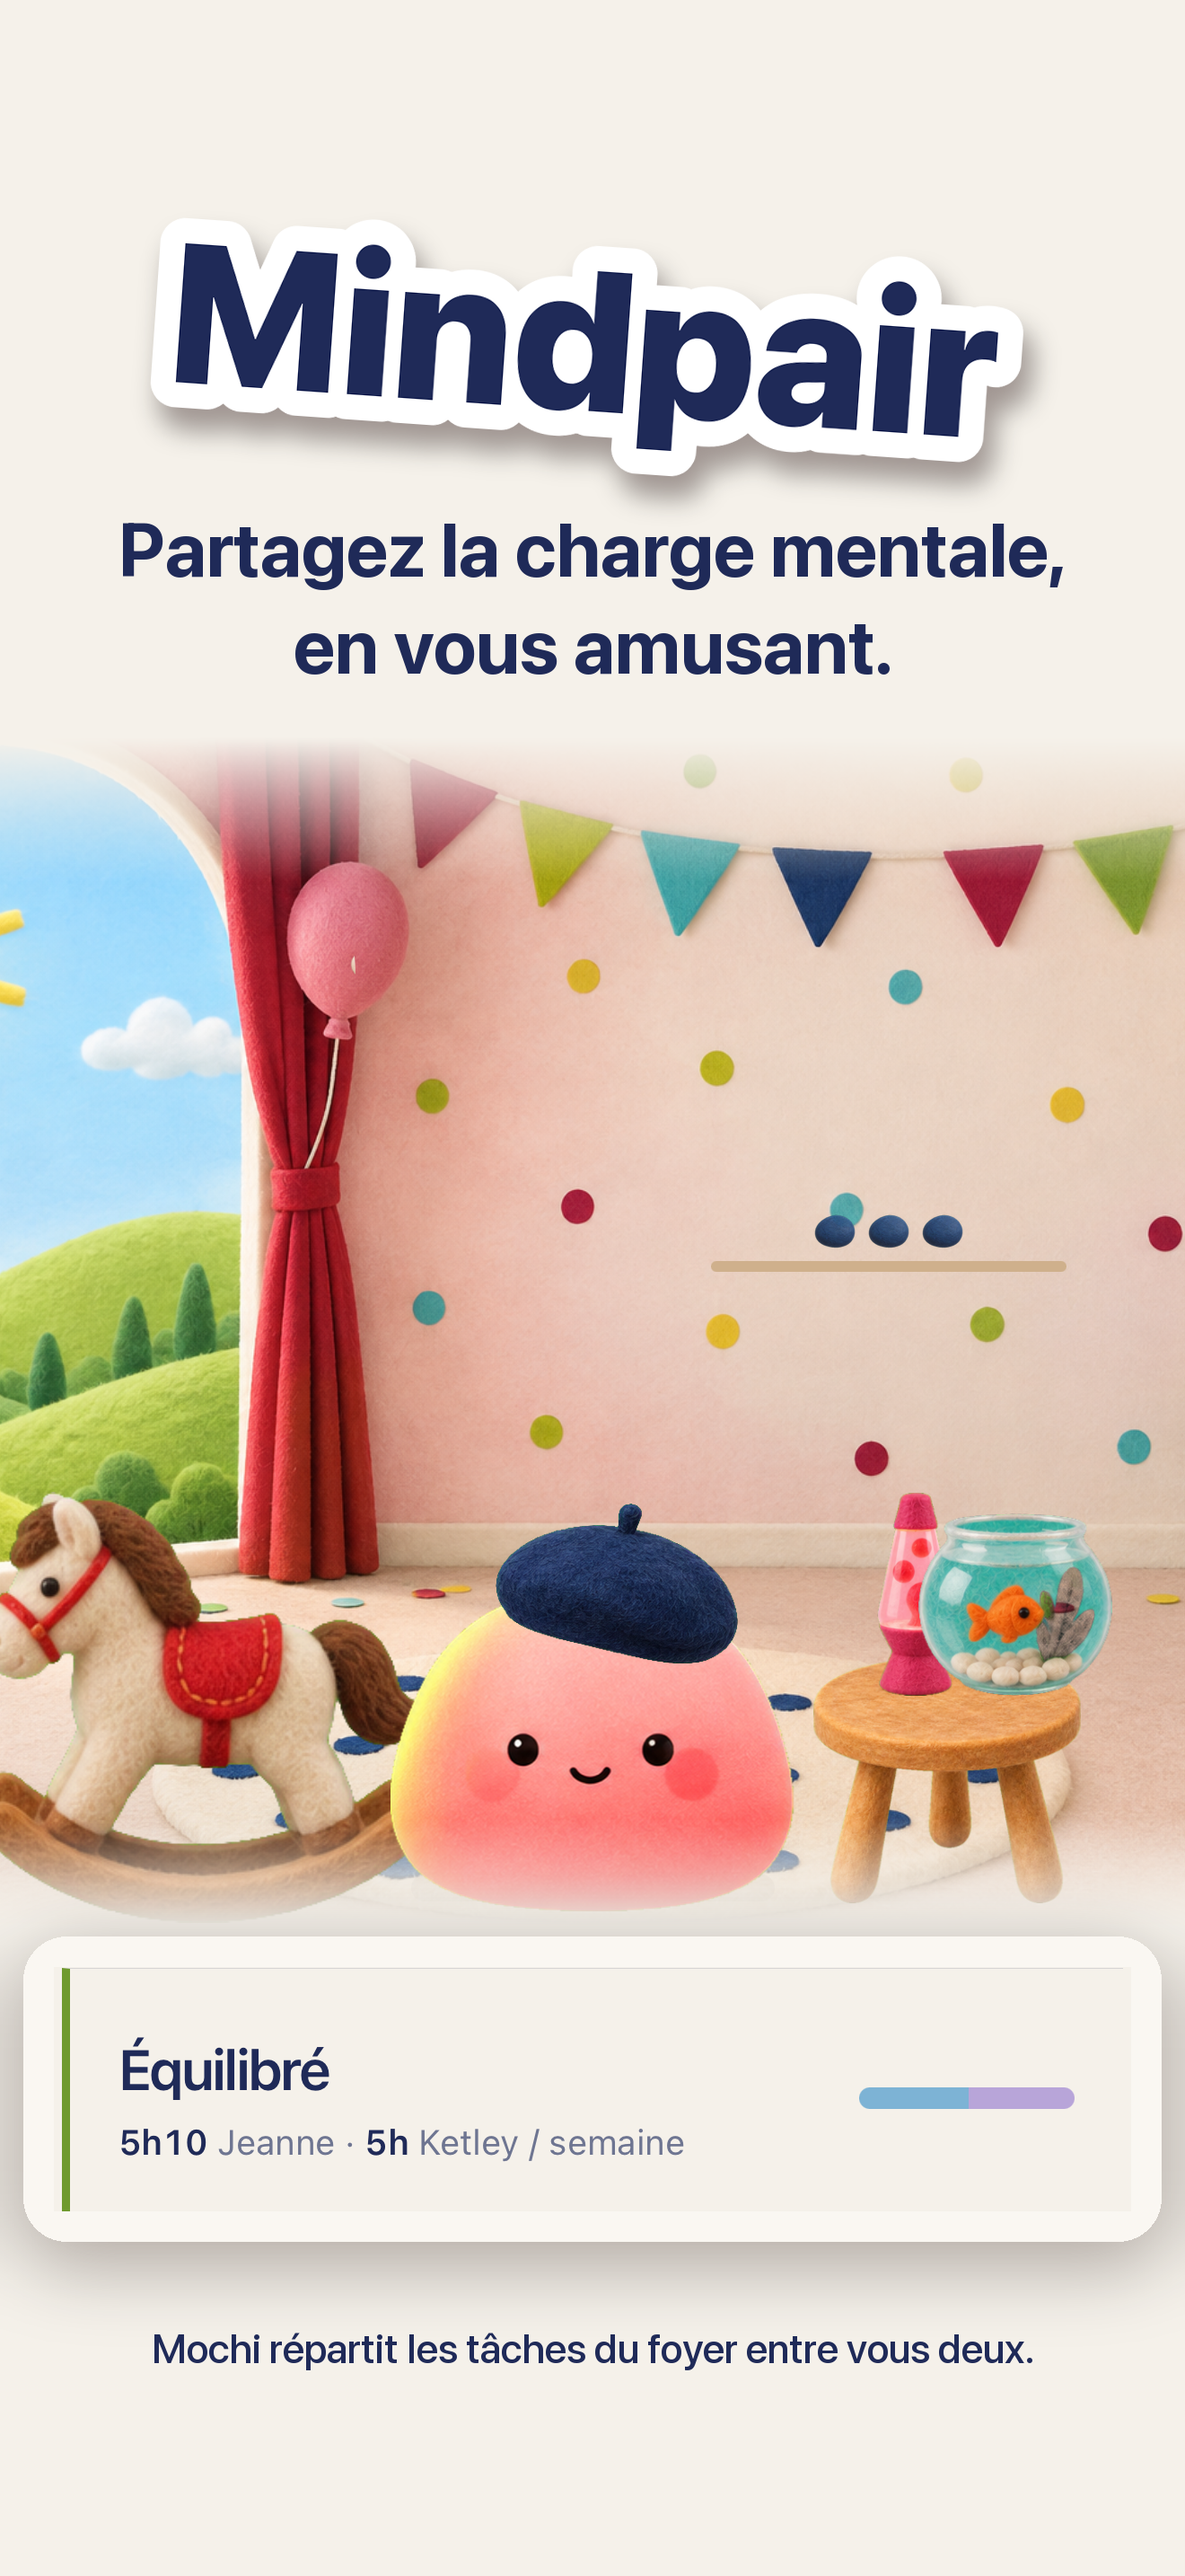
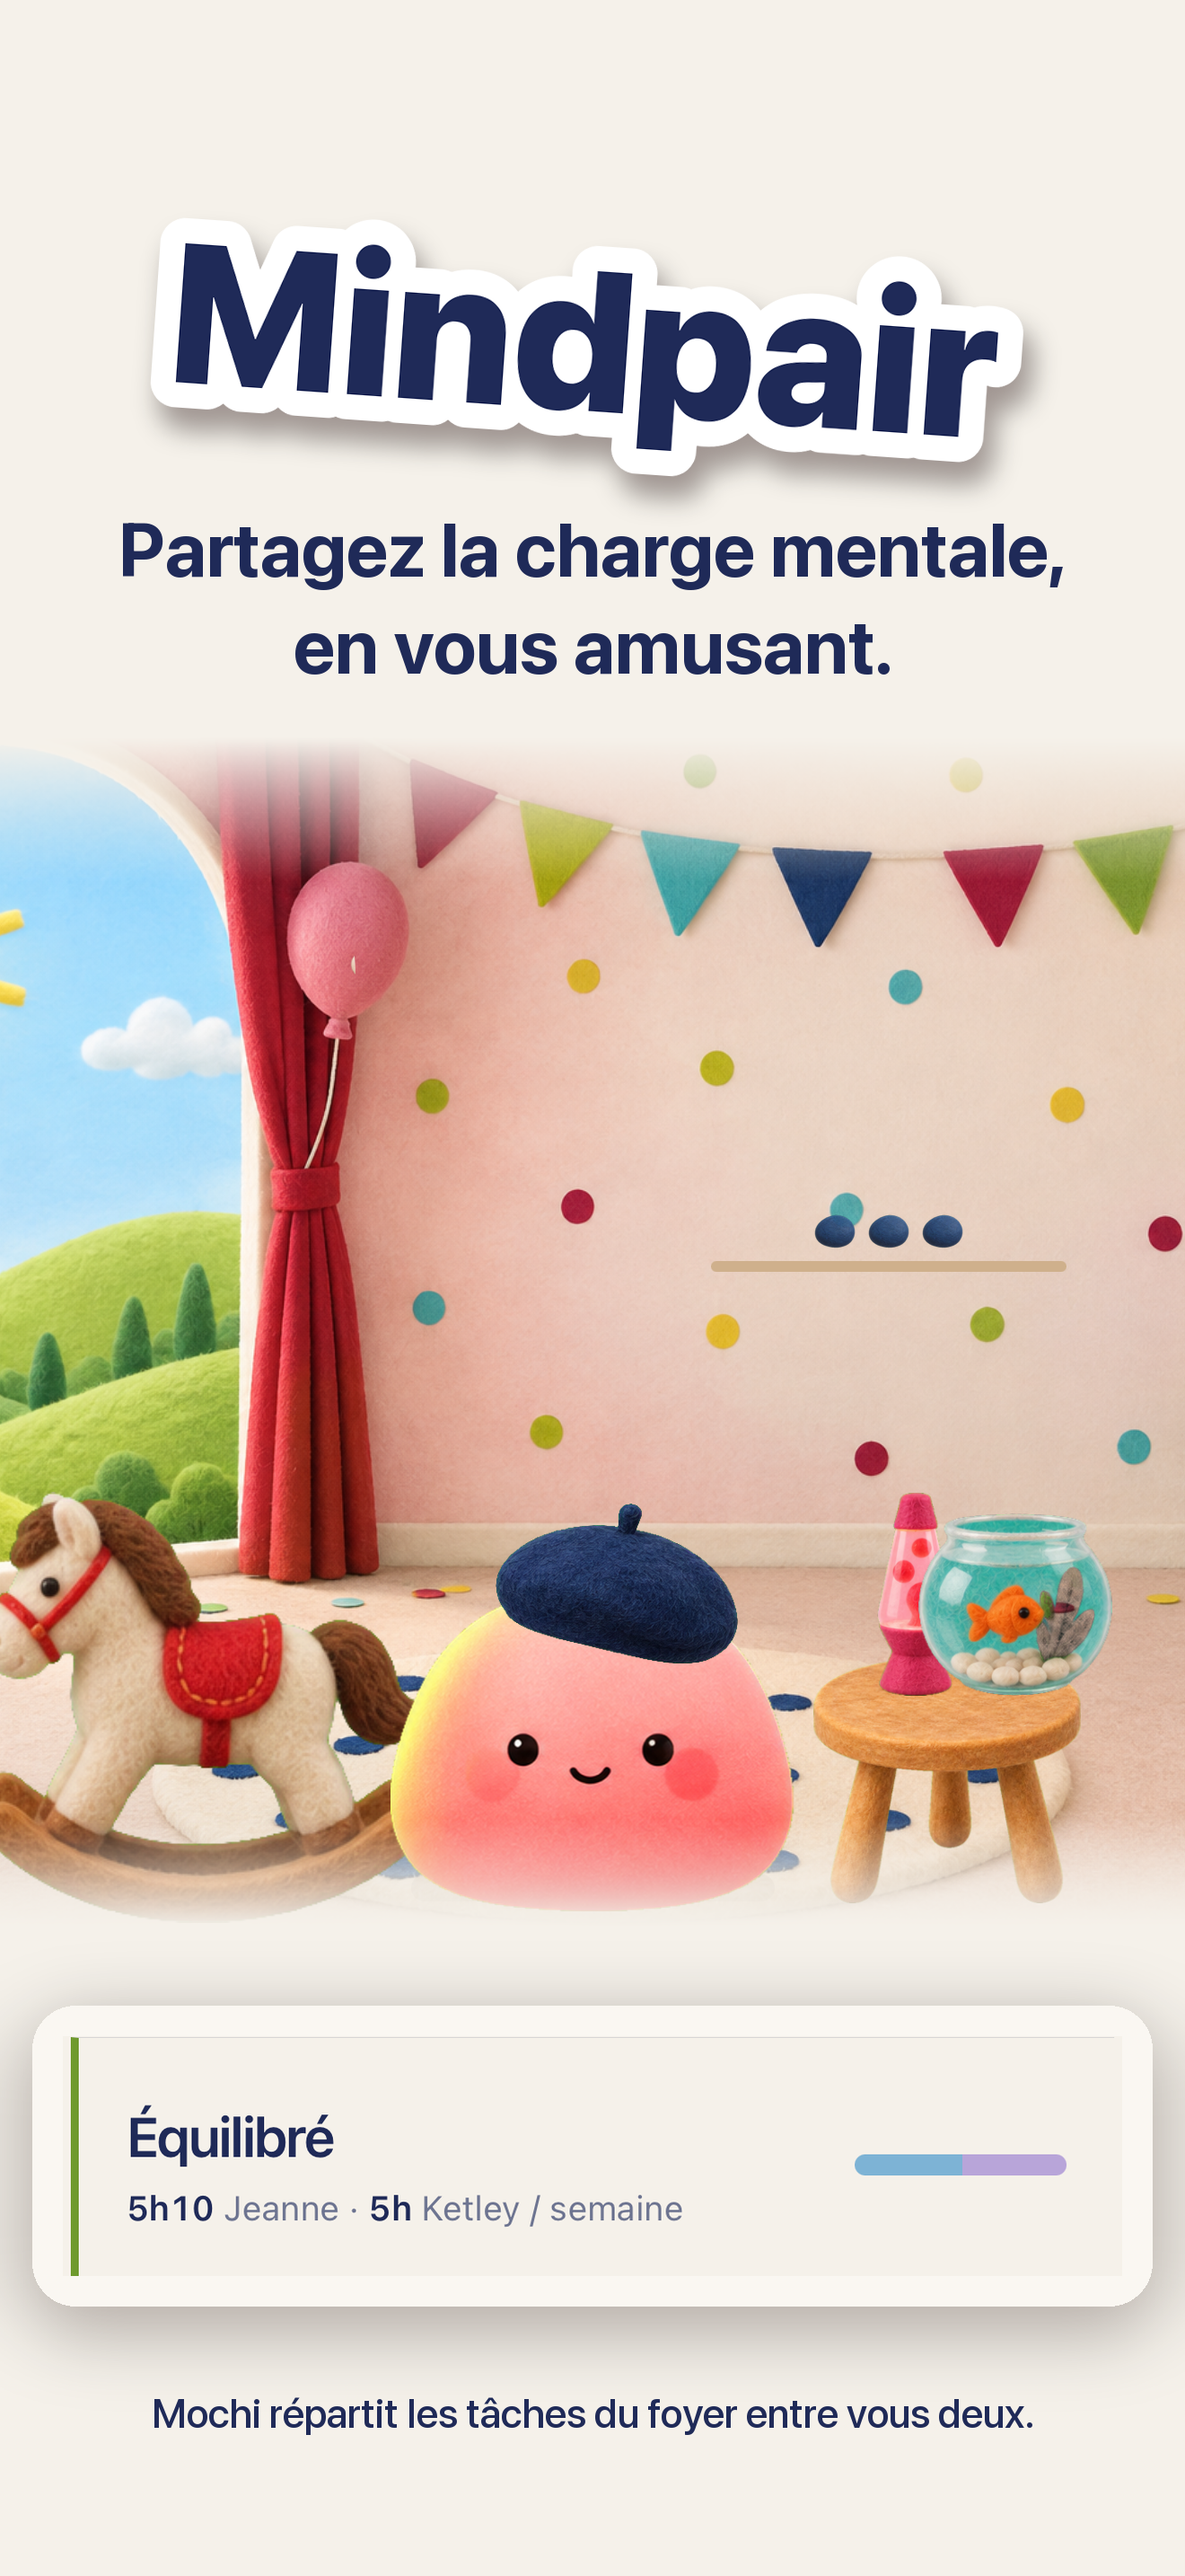
Captures App Store v4 : les six écrans sur la grille validée (sticker, titre, pièce, un élément de l'app)

Changed region(s): [[0.0, 0.7758, 0.9939, 0.962]]

diff --git a/app/scene-capture.js b/app/scene-capture.js
@@ -1,16 +1,20 @@
 // Écran de capture (App Store, 10 nov 2026) : la pièce de Mochi seule, en plein écran, sans interface.
-// Accessible par mochi://scene-capture — sert uniquement à produire les visuels du Store.
+// mochi://scene-capture?mood=sad&items=cheval,lave&outfit=beret&lvl=1&nuit=1 — sert uniquement aux visuels du Store.
 import React from 'react';
 import { View, useWindowDimensions } from 'react-native';
+import { useLocalSearchParams } from 'expo-router';
 import { Scene } from '../src/components/mochi/scene';
 import { TOKENS } from '../src/theme-v3';
 
+const POS = { cheval: { x: 0.17, y: 0.78 } };
 export default function SceneCapture() {
-  const T = TOKENS.jour; // toujours le jour : c'est la pièce que montre le Store
+  const q = useLocalSearchParams();
+  const T = q.nuit ? TOKENS.nuit : TOKENS.jour; // le jour par défaut : c'est la pièce que montre le Store
   const { width: W } = useWindowDimensions();
+  const items = q.items != null ? String(q.items).split(',').filter(Boolean) : ['cheval', 'aquarium', 'lave'];
   return (
     <View style={{ flex: 1, backgroundColor: T.bg, justifyContent: 'center' }}>
-      <Scene T={T} stage="mochi" mood="happy" lvl={2} height={W * 1.05} items={['cheval', 'aquarium', 'lave']} outfit="beret" souvenirs={3} positions={{ cheval: { x: 0.17, y: 0.78 } }} />
+      <Scene key={JSON.stringify(q)} T={T} stage="mochi" mood={q.mood || 'happy'} lvl={Number(q.lvl || 2)} height={W * 1.05} items={items} outfit={q.outfit === 'none' ? null : (q.outfit || 'beret')} souvenirs={3} positions={POS} />
     </View>
   );
 }

diff --git a/scripts/store-ecrans.py b/scripts/store-ecrans.py
@@ -1,0 +1,57 @@
+# Captures App Store v4 (10 nov 2026, grille validée par Jeanne sur l'écran 1) :
+# sticker « Mindpair » en haut · titre (textes « d'avant ») · la vraie pièce de Mochi (scene-capture, sans interface)
+# · UN élément de l'app en grand, calé au même endroit · une phrase qui explique. Fond crème, pièce qui change d'ambiance.
+from PIL import Image, ImageDraw, ImageFont, ImageFilter
+M='/Users/jeannecazalot/mochi/'; B=M+'design/app-store/brut/'; O=M+'design/app-store/'
+W,H=1320,2868; INK=(31,42,88); CREAM=(245,241,234)
+SF='/System/Library/Fonts/SFNS.ttf'
+def font(sz,w):
+    f=ImageFont.truetype(SF,sz); f.set_variation_by_name(w); return f
+def rounded(img,r):
+    m=Image.new('L',img.size,0); ImageDraw.Draw(m).rounded_rectangle((0,0,img.width-1,img.height-1),r,fill=255); return m
+def shadow(im,box,r,a=90,blur=40,dy=22):
+    sh=Image.new('RGBA',im.size,(0,0,0,0)); x0,y0,x1,y1=box
+    ImageDraw.Draw(sh).rounded_rectangle((x0,y0+dy,x1,y1+dy),r,fill=(60,35,30,a))
+    return Image.alpha_composite(im,sh.filter(ImageFilter.GaussianBlur(blur)))
+def sticker(txt,size,fill,angle):
+    f=font(size,'Heavy'); d0=ImageDraw.Draw(Image.new('RGB',(1,1))); w=int(d0.textlength(txt,font=f)); h=int(size*1.25)
+    sw=int(size*0.13); pad=sw+30
+    t=Image.new('RGBA',(w+2*pad,h+2*pad),(0,0,0,0)); ImageDraw.Draw(t).text((pad,pad),txt,font=f,fill=fill,stroke_width=sw,stroke_fill=(255,255,255,255))
+    t=t.rotate(angle,expand=True,resample=Image.BICUBIC)
+    sh=Image.new('RGBA',t.size,(0,0,0,0)); sh.paste((50,30,30,110),(0,0),t.split()[3]); sh=sh.filter(ImageFilter.GaussianBlur(14))
+    out=Image.new('RGBA',(t.width+20,t.height+30),(0,0,0,0)); out.alpha_composite(sh,(10,24)); out.alpha_composite(t,(0,0)); return out
+STICKER=sticker('Mindpair',220,INK+(255,),-4)
+RY=820; CARD_BOTTOM=H-300; CAPTION_Y=H-210; CARD_MAX_H=450
+
+def screen(out,title,scene,crop_file,crop_box,caption,card_bg=(250,247,242)):
+    im=Image.new('RGBA',(W,H),CREAM+(255,))
+    room=Image.open(B+f'{scene}.png').convert('RGBA').crop((0,741,1320,2067))
+    mask=Image.new('L',room.size,255); md=ImageDraw.Draw(mask)
+    for i in range(160): md.line((0,i,W,i),fill=int(255*i/160))
+    for i in range(120): md.line((0,room.height-1-i,W,room.height-1-i),fill=int(255*i/120))
+    im.paste(room,(0,RY),mask)
+    im.alpha_composite(STICKER,((W-STICKER.width)//2,150))
+    d=ImageDraw.Draw(im)
+    def center(y,t,f,fill):
+        w=d.textlength(t,font=f); d.text(((W-w)/2,y),t,font=f,fill=fill)
+    for i,l in enumerate(title): center(560+108*i,l,font(84,'Bold'),INK)
+    c=Image.open(B+crop_file).convert('RGBA').crop(crop_box)
+    k=min(1.0,CARD_MAX_H/c.height,(W-140)/c.width); c=c.resize((int(c.width*k),int(c.height*k)),Image.LANCZOS)
+    pad=34; card=Image.new('RGBA',(c.width+2*pad,c.height+2*pad),card_bg+(255,)); card.paste(c,(pad,pad),c)
+    cx=(W-card.width)//2; cy=CARD_BOTTOM-card.height
+    im=shadow(im,(cx,cy,cx+card.width,cy+card.height),48)
+    im.paste(card,(cx,cy),rounded(card,48))
+    d=ImageDraw.Draw(im); center(CAPTION_Y,caption,font(46,'Medium'),INK+(170,))
+    im.convert('RGB').save(O+out+'.png')
+
+S=[('v4-01',['Partagez la charge mentale,','en vous amusant.'],'scene','dispatch.png',(60,872,1260,1144),'Mochi répartit les tâches du foyer entre vous deux.'),
+   ('v4-02',['Souvent, une seule','personne y pense.'],'scene-triste','onb1.png',(0,1800,1320,2250),'Le travail invisible du foyer, chiffré par l’Insee.',(46,33,64)),
+   ('v4-03',['Vous listez tout ce qui','tourne dans vos têtes.'],'scene-surpris','taches.png',(56,848,1264,1240),'Chacun coche sur son téléphone, l’autre le voit en direct.'),
+   ('v4-04',['Mochi répartit,','équitablement.'],'scene-clin','dispatch.png',(60,1320,1264,1860),'Selon vos dispos et ce que chacun préfère.'),
+   ('v4-05',['Chacun ses missions.','Plus besoin de relancer.'],'scene-nuit','planning.png',(40,690,1290,1090),'Mindpair rappelle les missions. Pas l’autre.'),
+   ('v4-06',['Et vous élevez Mochi,','ensemble.'],'scene-pleine','chambre.png',(60,1300,1264,1515),'Chaque mission cochée rapporte des perles pour sa pièce.')]
+for s in S: screen(*s)
+sc=0.25; w,h=int(W*sc),int(H*sc); g=24
+P=Image.new('RGB',(6*w+7*g,h+2*g),(226,220,212))
+for i,s in enumerate(S): P.paste(Image.open(O+s[0]+'.png').resize((w,h)),(g+i*(w+g),g))
+P.save(O+'planche-v4.png')

diff --git a/TODO.md b/TODO.md
@@ -437,3 +437,5 @@ Décisions Jeanne (tableau de bord, 4 nov 2026) : coucher du foyer 22 h (migrati
 9 nov 2026 (nuit, v2) — **Captures App Store v2** après retour Jeanne (« pas au même endroit, on ne comprend pas à quoi ça sert, beige triste ») : synthèse validée (« Partagez la charge mentale, en vous amusant » → problème Insee → vous listez → Mochi répartit → chacun ses missions → vous élevez Mochi), grille fixe (mot Mindpair, titre à taille unique, téléphone même taille/hauteur), une couleur franche de la pièce par écran (rose, ciel, vert, jaune, rouge, nuit), Mochi assis sur le téléphone avec une expression qui suit le titre, un élément agrandi à sa place. Fichiers `design/app-store/01-promesse … 06-mochi.png`, script `scripts/captures-app-store.py`.
 
 9 nov 2026 (nuit, v3) — **Captures App Store v3** (retour : textes plus péchus, pas de fonds qui changent, plus créatif, Mochi assis inutile) : un seul fond rose du mur en feutre, titres « La charge mentale, ça se partage. / Qui pense à tout, chez vous ? / Videz vos têtes. À deux. / Mochi répartit. Sans débat. / Fini les « t'as pensé à… ? » / Une mission cochée, une perle gagnée. », vraies notifications de l'app (textes exacts de copy.push) en bannières iOS, pensées en vrac autour du chiffre Insee, perles agrandies. Mochi retiré des bords.
+
+10 nov 2026 — **Captures App Store v4** (grille validée par Jeanne sur l'écran 1 : « ça me va ») : sticker « Mindpair » en haut, titres « d'avant », la vraie pièce de Mochi rendue par l'app sans interface (`app/scene-capture.js`, réglable : `?mood=&items=&outfit=&lvl=&nuit=1`), un seul élément de l'app en grand calé au même endroit, une phrase qui explique. Ambiances : 1 heureux · 2 triste, pièce vide (chiffres Insee de l'onboarding) · 3 étonné (choix à deux) · 4 clin d'œil (répartition) · 5 nuit, il dort (Planning) · 6 pièce pleine, couronne (boutique). Script `scripts/store-ecrans.py`, fichiers `design/app-store/v4-0x.png`, planche `planche-v4.png`. Pas encore sur App Store Connect.
